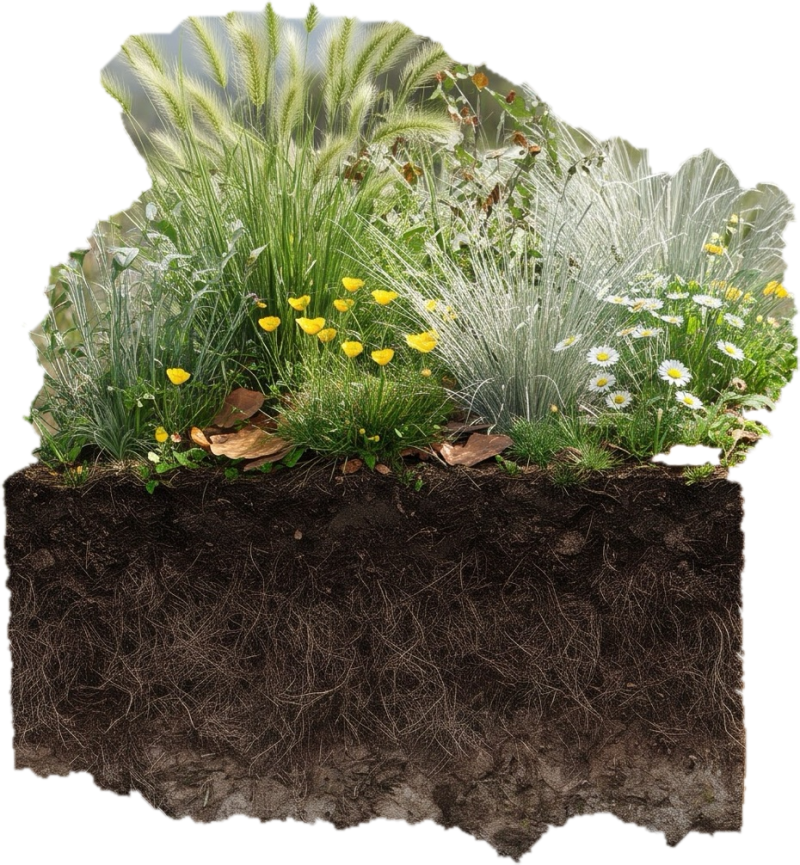
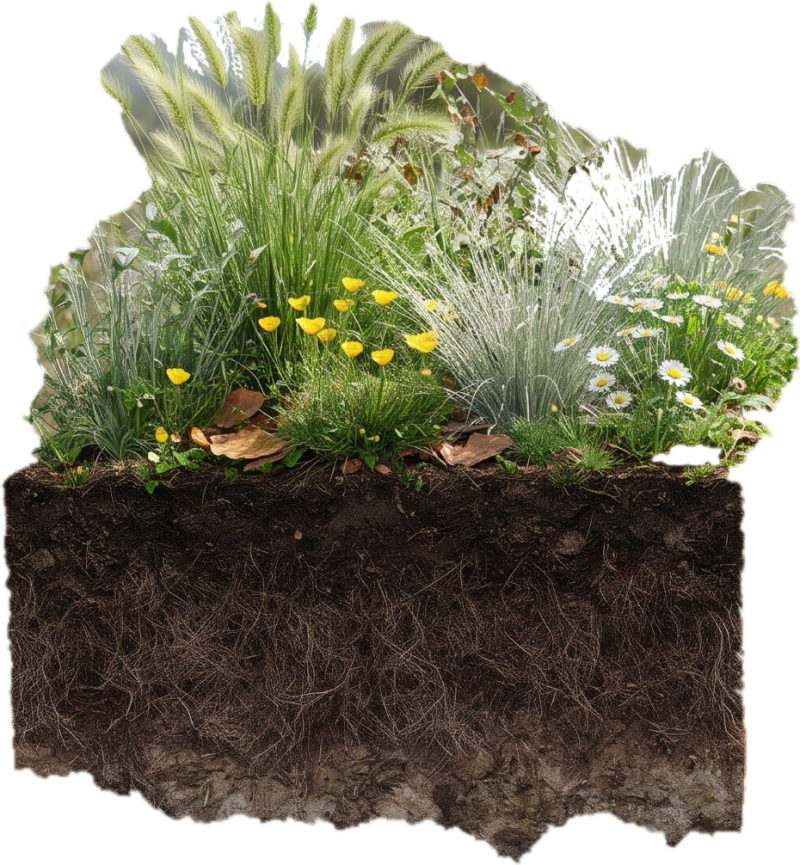
第一課：演替動畫改用去背圖，清掉淺色天空殘留，修正解說文字
Claude-Session: https://claude.ai/code/session_01CwtW5de79D5RjYKMfukgKM

diff --git a/assets/biology/ecology_draw_succession_1023_v1.js b/assets/biology/ecology_draw_succession_1023_v1.js
@@ -1,23 +1,26 @@
-/* Ecology lesson 1 · "succession" canvas (succession tab, view 0), 2026-10-23.
+/* Ecology lesson 1 · "succession" canvas (succession tab, view 0), 2026-10-23 (v1, transparent pictures).
  * Five stages (bare ground → pioneers → herbs → shrubs → trees) × two starting points (s.origin 0 soil, 1 bare rock).
  * Layout (one frame shared by every stage; only the picture, the bars and the tags change, with cross-fades):
  *   top     a stage track of five pills (current = yellow, passed = green outline); stage 0/1 names follow the origin.
- *   left    the scene panel (16,72,452×462): the teacher's Gemini AI scene pictures (outdoor background kept, not cut out),
- *           cropped and clipped with rounded corners. Portrait pictures 1000×1116 use the crop x 60..940, y 100..1000 so
- *           the soil block sits at the same place in every picture; SU4_woodland 1000×558 uses x 130..870 (all three trees),
- *           top-aligned, and the band under it holds a name card: EC8_camphor_tree + "Trees, e.g. camphor tree".
- *           origin 0: SU1_soil → SU2_seedling → SU3_herb → SU3_shrub → SU4_woodland
- *           origin 1: SU1_rock → SU2_lichen  → SU3_herb → SU3_shrub → SU4_woodland
- *           Every visible thing in a picture has a name tag with a leader (anchors measured on the pictures once, in
- *           picture pixels). Seeds in the soil (stage 0, origin 0) are not in the picture: drawn here and named.
+ *   left    the scene (x 16..468): the teacher's Gemini AI blocks, background removed (transparent PNG), pasted straight
+ *           on the board colour (no frame, no crop). All 800-wide blocks use one scale (0.45) and one centre (x 242),
+ *           and their block bottom row (PIL: last row whose opaque width > 60 %) sits on one ground line GY, so the block
+ *           never jumps during a cross-fade. SU4_forest 1000×495 is drawn 452 wide on the same ground line; the free space
+ *           above it holds a name card: EC8_camphor_tree + "Trees, e.g. camphor tree".
+ *           origin 0: SU1_soil → SU2_seedling → SU3_herb → SU3_shrub → SU4_forest
+ *           origin 1: SU1_rock → SU2_lichen  → SU3_herb → SU3_shrub → SU4_forest
+ *           Every visible thing has a name tag with a leader; anchors were measured on the PNGs (picture pixels).
+ *           Not in the pictures, so drawn here and named: seeds in the soil (origin 0, stage 0), herb seedlings on the soil
+ *           (origin 0, stage 1; the cut-out removed them) and moss tufts on the rock top (origin 1, stage 1; also removed).
+ *           "Rock" is tagged only where rock shows: SU1_soil, SU1_rock, SU2_seedling, SU2_lichen, SU4_forest.
  *   right   "Community makeup": one schematic bar per group (no numbers); origin 0 rows herbs / shrubs / trees,
  *           origin 1 adds lichen and moss. Under it three schematic meters: soil depth, water held, light at ground.
  *           Then "Early arrivals change conditions": cause pill → effect pill for this stage; the meter that changes glows.
  *           Stage 4 adds "The path is not fixed".
- *   bottom  "AI illustration, not a photo" + "Schematic" under the picture; "Succession: the community makeup changes"
+ *   bottom  "AI illustration, not a photo · Schematic" under the scene; "Succession: community makeup changes"
  *           (stage 4: "Not one herb growing into a tree").
- * No years, no numbers on any bar. s.shown = stage every frame. Held stages keep moving (slow zoom, pulses, flowing leaders).
- * Switching s.origin drops any cross-fade, so the two starting points never mix on screen.
+ * No years, no numbers on any bar. s.shown = stage every frame. Held stages keep moving (slow breathing, pulses, sway,
+ * flowing leaders). Switching s.origin drops any cross-fade, so the two starting points never mix on screen.
  */
 (()=>{'use strict';
 const K=window.EcologyKit,{P,C,D,TAU,clamp,mix,mod,smooth,rgba,text,measure,glow,circle,ellipse,dim,stageClock}=K;
@@ -26,28 +29,31 @@ const N=5,PER=7,CW=960,MOVE=1.2;
 const YELLOW=C.yellow,WHITE=C.white,ORANGE=C.orange,GREEN=C.green,CYAN=C.cyan,GREY='#9fb3a8',BROWN='#c08a52',SEED='#f1d27a';
 
 // ── geometry ───────────────────────────────────────────────────────────────
-const PX=16,PY=72,PW=452,PH=462;                       // scene panel
+const PX=16,PY=72,PW=452,PH=462;                       // scene area
 const RX=486,RW=CW-16-RX;                               // right column
-const PORT={crop:[60,100,880,900]},WIDE={crop:[130,0,740,558]};
-const rectOf=f=>f==='SU4_woodland.jpg'?{x:PX,y:PY,w:PW,h:PW*558/740}:{x:PX,y:PY,w:PW,h:PH};
-const cropOf=f=>f==='SU4_woodland.jpg'?WIDE.crop:PORT.crop;
+const SCX=PX+PW/2,GY=526,S800=.45,FOREST='SU4_forest.png',S4=PW/1000;
+// block bottom row of each picture (PIL: last row whose opaque width > 60 % of the picture)
+const BOT={'SU1_rock.png':814,'SU1_soil.png':809,'SU2_lichen.png':807,'SU2_seedling.png':804,'SU3_herb.png':817,'SU3_shrub.png':986,'SU4_forest.png':475};
+function rectOf(f){const [W,H]=dim(f),sc=f===FOREST?S4:S800;return{x:SCX-W*sc/2,y:GY-BOT[f]*sc,w:W*sc,h:H*sc,s:sc};}
 // picture pixel → canvas
-function mapPt(f,ix,iy){const r=rectOf(f),[x0,y0,cw,ch]=cropOf(f);return[r.x+(ix-x0)*r.w/cw,r.y+(iy-y0)*r.h/ch];}
+function mapPt(f,ix,iy){const r=rectOf(f);return[r.x+ix*r.s,r.y+iy*r.s];}
 
 // pictures per origin and stage
-const FILES=[['SU1_soil.jpg','SU2_seedling.jpg','SU3_herb.jpg','SU3_shrub.jpg','SU4_woodland.jpg'],
-             ['SU1_rock.jpg','SU2_lichen.jpg','SU3_herb.jpg','SU3_shrub.jpg','SU4_woodland.jpg']];
+const FILES=[['SU1_soil.png','SU2_seedling.png','SU3_herb.png','SU3_shrub.png',FOREST],
+             ['SU1_rock.png','SU2_lichen.png','SU3_herb.png','SU3_shrub.png',FOREST]];
 // name tags on each picture: [label key, anchor in picture px, tag x, tag y, align]
 const TAGS={
- 'SU1_soil.jpg':[['seeds',[520,380],26,84,'left'],['roots',[390,420],140,84,'left'],['soil',[760,300],458,84,'right'],['rock',[330,800],26,472,'left']],
- 'SU1_rock.jpg':[['noSoil',[500,248],242,84,'center'],['rockShort',[400,640],26,472,'left']],
- 'SU2_seedling.jpg':[['seedlings',[300,212],26,78,'left'],['soil',[760,320],458,78,'right'],['rock',[330,800],26,472,'left']],
- 'SU2_lichen.jpg':[['lichen',[330,395],26,78,'left'],['moss',[580,238],458,78,'right'],['rock',[330,800],26,472,'left']],
- 'SU3_herb.jpg':[['herbs',[330,330],26,78,'left'],['litter',[385,572],458,286,'right'],['soil',[300,720],26,370,'left'],['rock',[300,945],26,478,'left']],
- 'SU3_shrub.jpg':[['shrubs',[262,250],26,78,'left'],['herbs',[835,470],458,166,'right'],['litter',[260,565],26,282,'left'],['roots',[480,720],458,370,'right'],['soil',[250,900],26,472,'left']],
- 'SU4_woodland.jpg':[['trees',[700,95],458,78,'right'],['herbs',[255,262],26,224,'left'],['soil',[640,340],458,252,'right'],['rock',[700,452],458,318,'right']]};
-// seeds drawn in the soil layer of SU1_soil (picture px; the soil band is y 245..500)
-const SEEDS=[[230,330,.4],[330,455,1.1],[520,380,0],[610,470,2],[760,350,.7],[455,300,1.6],[820,445,2.4],[180,430,.2]];
+ 'SU1_soil.png':[['seeds',[390,100],24,98,'left'],['roots',[262,205],136,98,'left'],['soil',[650,150],460,98,'right'],['rock',[300,600],24,470,'left']],
+ 'SU1_rock.png':[['noSoil',[360,12],242,96,'center'],['rockShort',[330,560],24,470,'left']],
+ 'SU2_seedling.png':[['seedlings',[110,30],24,98,'left'],['soil',[650,150],460,98,'right'],['rock',[300,600],24,470,'left']],
+ 'SU2_lichen.png':[['moss',[190,18],24,98,'left'],['lichen',[686,320],460,98,'right'],['rock',[300,600],24,470,'left']],
+ 'SU3_herb.png':[['herbs',[250,200],24,98,'left'],['litter',[243,443],24,318,'left'],['soil',[300,620],24,440,'left']],
+ 'SU3_shrub.png':[['shrubs',[186,257],24,78,'left'],['herbs',[686,429],460,300,'right'],['litter',[286,514],24,300,'left'],['roots',[400,686],460,400,'right'],['soil',[129,857],24,470,'left']],
+ 'SU4_forest.png':[['trees',[500,80],242,262,'center'],['herbs',[150,285],24,262,'left'],['soil',[600,360],460,262,'right'],['rock',[450,450],20,486,'left']]};
+// drawn by program (picture px): seeds in the SU1_soil soil band, seedlings on the SU2_seedling soil top, moss on the SU2_lichen rock top
+const SEEDS=[[120,140,.4],[250,230,1.1],[390,100,0],[470,250,2],[600,180,.7],[700,110,1.6],[330,170,2.4],[160,262,.2]];
+const SPROUTS=[[110,44],[210,44],[300,46],[385,46],[470,42],[620,42],[705,44]];
+const MOSS=[[190,26],[290,18],[530,36],[640,38]];
 
 // community makeup (schematic 0..1 per row; no numbers are shown)
 const ROWS=[[['herbs',GREEN],['shrubs','#a3e635'],['trees','#34d399']],
@@ -78,23 +84,27 @@ function leader(c,r,ax,ay,t,col){
   c.save();c.setLineDash([6,5]);c.lineDashOffset=-t*18;K.line(c,[[sx,ey],[ax,ay]],rgba(C.deep,.85),5);K.line(c,[[sx,ey],[ax,ay]],rgba(col,.95),2.5);c.restore();
   circle(c,ax,ay,6,col,C.deep,2);const u=mod(t*.7);circle(c,ax,ay,6+u*10,null,rgba(col,.8*(1-u)),2);
 }
-function scene(c,f,a,t){if(a<=0.002)return;const r=rectOf(f),[x0,y0,cw,ch]=cropOf(f),[W,H]=dim(f);
-  const z=1+.012*(1+Math.sin(t*.45)),zx=r.x+r.w/2,zy=r.y+r.h/2;
-  c.save();c.globalAlpha*=a;c.beginPath();c.roundRect(r.x,r.y,r.w,r.h,14);c.clip();
-  c.translate(zx,zy);c.scale(z,z);c.translate(-zx,-zy);
-  K.drawIn(c,f,r,{crop:[x0/W,y0/H,cw/W,ch/H]});c.restore();
-  c.save();c.globalAlpha*=a;D.round(c,r.x,r.y,r.w,r.h,14,null,C.edge);c.restore();}
+function scene(c,f,a,t){if(a<=0.002)return;const r=rectOf(f),z=1+.004*(1+Math.sin(t*.45)),bx=SCX,by=GY;
+  c.save();c.globalAlpha*=a;
+  ellipse(c,SCX,GY+6,r.w*.46,10,rgba(C.deep,.55),null);               // ground shadow under the block
+  c.translate(bx,by);c.scale(z,z);c.translate(-bx,-by);K.drawIn(c,f,r);c.restore();}
 function seeds(c,f,a,t){withA(c,a,()=>SEEDS.forEach(([ix,iy,ph])=>{const [x,y]=mapPt(f,ix,iy),g=.5+.5*Math.sin(t*2.2+ph);
   glow(c,x,y,12,SEED,.25+.25*g);ellipse(c,x,y,5.5,3.8,SEED,C.deep,1.5,ph);}));}
+function sprouts(c,f,a,t){withA(c,a,()=>SPROUTS.forEach(([ix,iy],i)=>{const [x,y]=mapPt(f,ix,iy),h=16+(i%3)*4,sw=Math.sin(t*1.6+i)*2.5,tx=x+sw,ty=y-h;
+  K.sline(c,[[x,y],[x+sw*.4,y-h*.5],[tx,ty]],'#2f7a3a',4);K.sline(c,[[x,y],[x+sw*.4,y-h*.5],[tx,ty]],'#86d46a',2.4);
+  ellipse(c,tx-6,ty+1,7,3.4,'#7cc95b',C.deep,1.2,-.5);ellipse(c,tx+6,ty+1,7,3.4,'#9be07a',C.deep,1.2,.5);}));}
+function moss(c,f,a,t){withA(c,a,()=>MOSS.forEach(([ix,iy],i)=>{const [x,y]=mapPt(f,ix,iy),b=.5+.5*Math.sin(t*1.8+i);
+  const r=K.rng(90+i);for(let q=0;q<9;q++){const dx=(r()-.5)*30,dy=(r()-.5)*6-2,rr=4+r()*3;circle(c,x+dx,y+dy,rr+b*.6,q%2?'#6fa83a':'#9ccc4f',rgba(C.deep,.6),1);}}));}
 function tags(c,f,a,t){withA(c,a,()=>(TAGS[f]||[]).forEach(([key,[ix,iy],x,y,al])=>{
   const [ax,ay]=mapPt(f,ix,iy),col=key==='seeds'?SEED:key==='rock'||key==='rockShort'||key==='noSoil'?WHITE:key==='soil'?BROWN:key==='lichen'?ORANGE:GREEN;
   const p=L(key,key,key),w=measure(c,p,22)+28,bx=al==='right'?x-w:al==='center'?x-w/2:x;
   leader(c,{x:bx,y,w,h:40},ax,ay,t,col);tag(c,p,x,y,{al,col});}));}
-function camphorCard(c,a,t){withA(c,a,()=>{const y=PY+PW*558/740+10,h=PY+PH-y;
-  D.round(c,PX+8,y,PW-16,h,12,'rgba(11,26,21,.85)',rgba('#34d399',.7));
+function camphorCard(c,a,t){withA(c,a,()=>{const y=PY+14,h=104,x=PX+8,w=PW-16;
+  D.round(c,x,y,w,h,12,'rgba(11,26,21,.85)',rgba('#34d399',.7));
   const ih=h-14,iw=ih*dim('EC8_camphor_tree.png')[0]/dim('EC8_camphor_tree.png')[1],sw=Math.sin(t*1.1)*.02;
-  c.save();c.translate(PX+28+iw/2,y+7+ih);c.rotate(sw);K.drawIn(c,'EC8_camphor_tree.png',{x:-iw/2,y:-ih,w:iw,h:ih});c.restore();
-  K.wrap(c,L('treeExample','林木，例如樟樹','Trees, e.g. camphor tree'),PX+44+iw,y+h/2+8-(measure(c,L('treeExample','',''),22)>PW-90-iw?15:0),PW-90-iw,22,'#34d399',30);});}
+  c.save();c.translate(x+20+iw/2,y+7+ih);c.rotate(sw);K.drawIn(c,'EC8_camphor_tree.png',{x:-iw/2,y:-ih,w:iw,h:ih});c.restore();
+  const p=L('treeExample','林木，例如樟樹','Trees, e.g. camphor tree'),tw=w-iw-56,two=measure(c,p,22)>tw;
+  K.wrap(c,p,x+iw+36,y+h/2+8-(two?15:0),tw,22,'#34d399',30);});}
 
 // stage track
 function track(c,o,k,t){
@@ -132,13 +142,12 @@ function draw(c,s,t){
   track(c,o,k,t);
 
   // ── scene panel
-  D.round(c,PX,PY,PW,PH,14,C.panel,C.edge);
   const fIn=files[k],fOut=moving?files[st.from]:null;
   if(fOut&&fOut!==fIn){const aIn=smooth(clamp(x*2)),aOut=1-smooth(clamp(x*2-1));scene(c,fOut,aOut,t);scene(c,fIn,aIn,t);}
   else scene(c,fIn,1,t);
   // seeds drawn into the soil picture (origin 0, stage 0)
-  if(o===0)seeds(c,files[0],wSeq(0),t);
-  // camphor name card under the woodland picture
+  if(o===0){seeds(c,files[0],wSeq(0),t);sprouts(c,files[1],wOf(1),t);}else moss(c,files[1],wOf(1),t);
+  // camphor name card above the forest picture
   camphorCard(c,wSeq(4),t);
   // name tags: per stage (the same picture may serve two stages only across origins, so stage weight is enough)
   for(let j=0;j<N;j++)tags(c,files[j],wSeq(j),t);

diff --git a/assets/biology/ecology_1023_v1.js b/assets/biology/ecology_1023_v1.js
@@ -214,7 +214,7 @@ const tabs=[
 {id:'succession',title:P(`裸地怎麼變綠？`,`How does bare ground turn green?`),sub:P(`群集演替`,`Ecological succession`),
  hook:P(`崩塌後的坡地，或剛露出來的岩面，一開始什麼都沒有，後來卻長出草、灌木，最後變成樹林。這是原來的一株草慢慢長成大樹嗎？`,`A slope after a landslide, or a newly exposed rock face, starts with nothing, yet later grass and shrubs appear and finally woodland. Is that one original herb slowly growing into a tree?`),
  body:P(`演替是群集的組成隨時間改變，不是單一個體變成另一種。先來的生物和環境互相作用，可能改變土壤、光或水分，讓後來的物種比較容易建立。起點有沒有土壤、附近有沒有種子的來源、氣候和干擾，都會影響後來的變化。用「起點」切換有土壤的裸地和裸岩，再用步驟鈕看各個階段。`,`Succession is a change in the composition of a community over time, not one organism turning into another species. The first arrivals interact with the conditions and may change soil, light or water, making it easier for later species to establish. Whether the starting point has soil, whether seed sources lie nearby, and the climate and disturbance all affect what follows. Use "Starting point" to switch between bare ground with soil and bare rock, then use the step buttons to look at each stage.`),
- reading:P(`畫面是示意：階段只是一種可能的路徑，不是播放每一年真實發生的過程，也不寫固定年數。\n\n保留土壤的地方，土裡可能還有種子、根和微生物，常從草本開始；沒有土壤的裸岩，要先有地衣、苔蘚，慢慢累積薄薄的土，其他植物才長得住。不是所有的地方都照這個順序，也不是一定以森林結尾；起點、種子的來源、氣候和干擾都會改變路徑。場景圖是 AI 插圖，只是示意，不是實拍。`,`The picture is schematic: the stages are one possible path, not a replay of what happens each year, and no fixed years are given.\n\nWhere soil remains, the soil may still hold seeds, roots and microbes, and succession often starts with herbs; on bare rock, lichen and moss come first and slowly build a thin soil before other plants can hold on. Not every place follows this order, and it does not always end as forest; the starting point, seed sources, climate and disturbance all change the path. The scene pictures are AI illustrations, schematic and not photographs.`),
+ reading:P(`畫面是示意：階段只是一種可能的路徑，不是播放每一年真實發生的過程，也不寫固定年數。\n\n保留土壤的地方，土裡可能還有種子、根和微生物，常從草本開始；沒有土壤的裸岩，要先有地衣、苔蘚，慢慢累積薄薄的土，其他植物才長得住。不是所有的地方都照這個順序，也不是一定以森林結尾；起點、種子的來源、氣候和干擾都會改變路徑。場景圖是 AI 插圖，只是示意，不是實拍；林木是把樹疊成較密的樹林，草本幼苗、苔蘚與種子是程式加上去的示意。`,`The picture is schematic: the stages are one possible path, not a replay of what happens each year, and no fixed years are given.\n\nWhere soil remains, the soil may still hold seeds, roots and microbes, and succession often starts with herbs; on bare rock, lichen and moss come first and slowly build a thin soil before other plants can hold on. Not every place follows this order, and it does not always end as forest; the starting point, seed sources, climate and disturbance all change the path. The scene pictures are AI illustrations, schematic and not photographs; the woodland is trees layered into a denser forest, and the herb seedlings, moss and seeds are added by program as schematics.`),
  closure:P(`演替改變的是群集的組成；起點條件和干擾會改變路徑。`,`Succession changes the composition of a community; starting conditions and disturbance change its path.`),
  quiz:[
   {q:P(`演替指的是什麼？`,`What does succession mean?`),options:[P(`一株草慢慢長成一棵樹`,`One herb slowly growing into a tree`),P(`群集的組成隨時間改變`,`The composition of a community changing over time`),P(`一種動物變成另一種動物`,`One animal turning into another`),P(`植物的數量永遠不變`,`The number of plants never changing`)],answer:1,why:P(`演替改變的是群集裡有哪些物種、各占多少，不是單一個體的變身。`,`Succession changes which species are in the community and how much of each there is; it is not one individual transforming.`),hint:P(`再讀一次畫面上的「不是一株草長成樹」。`,`Read again the line "not one herb growing into a tree".`)},

diff --git a/assets/biology/ecology_ai_1023/sources.md b/assets/biology/ecology_ai_1023/sources.md
@@ -46,4 +46,4 @@ AI 插圖，非實拍。原圖左右各一塊，從中線切開；用 OpenCV Gra
 - `SU2_lichen.png` 地衣＋苔蘚附著岩面／`SU2_seedling.png` 土壤上的草本幼苗
 - `SU3_herb.png` 草本群落（草、開花植物）／`SU3_shrub.png` 灌木幼樹（有厚土壤）
 - `SU4_forest.png` 林木：原圖只有 3 棵樹，用程式把去背後的樹冠縮小、調暗，疊成前後三排，變成較密的樹林（程式合成，不是原圖）。
-- 已知瑕疵：樹冠邊緣、草尖有殘留的淺色背景點；SU1_rock 底部有一小條地面陰影；各圖的區塊高度不同（寬同為 800），底邊要對齊使用。
+- 已知瑕疵：樹冠邊緣、草尖有殘留的淺色背景點（SU3 草本、灌木、SU2 幼苗已再清掉一次淺色天空殘留）；SU2_seedling 的幼苗與 SU2_lichen 的苔蘚在去背時被切掉，由程式補畫；各圖區塊高度不同（寬同為 800），底邊要對齊使用。
